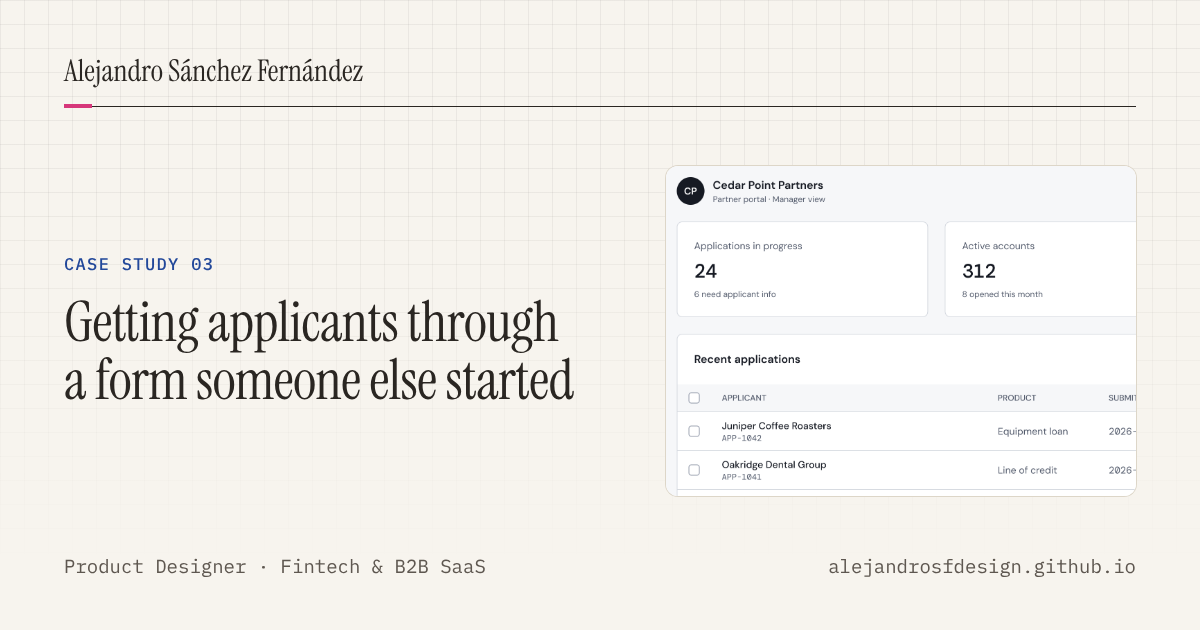
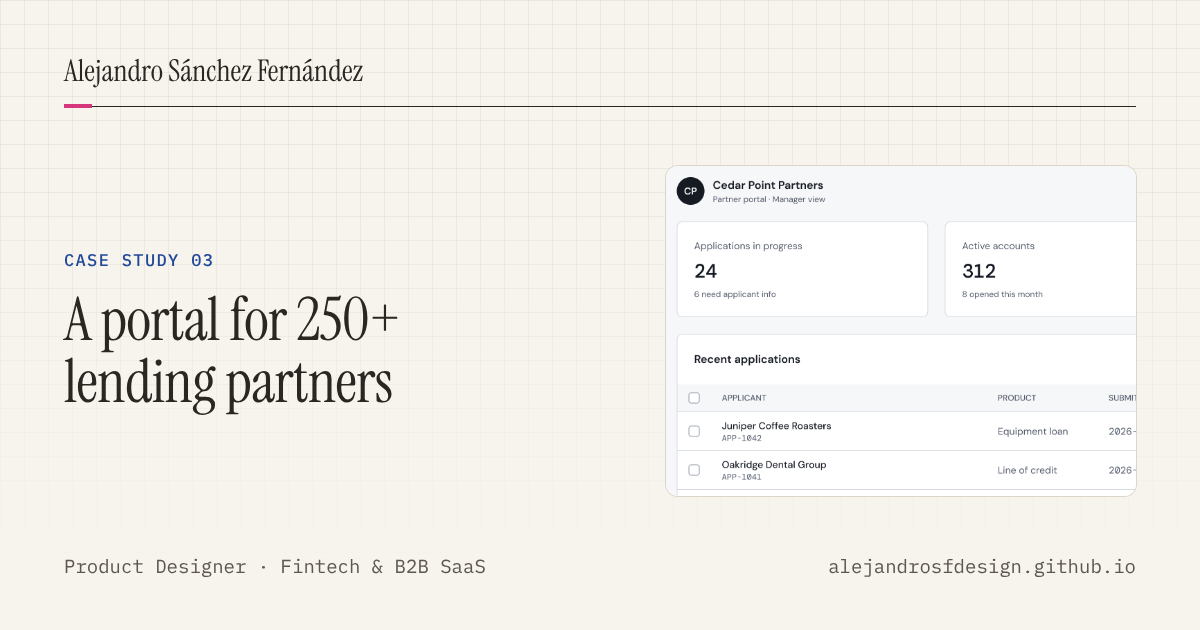
Case 03: align with the Corus deck — personas, prioritization, double-diamond challenges, before/after, one-pass flow, white-label, proposed validation
Claude-Session: https://claude.ai/code/session_01VMfZBDeXPhiXvsVLvhwzTe

Changed region(s): [[0.0308, 0.4524, 0.4933, 0.6635], [0.0617, 0.3921, 0.185, 0.4524]]

diff --git a/case-03.html b/case-03.html
@@ -3,24 +3,24 @@
 <head>
 <meta charset="utf-8">
 <meta name="viewport" content="width=device-width, initial-scale=1">
-<title>Getting applicants through a form someone else started — Alejandro Sánchez Fernández</title>
-<meta name="description" content="Case study: the portal 250+ lending partners use to submit applications, follow accounts and manage commissions, and the changes that helped more applicants finish.">
+<title>A portal for 250+ lending partners — Alejandro Sánchez Fernández</title>
+<meta name="description" content="Case study: a role-based portal, an internal admin and a redesigned application flow that took partner onboarding from 1–2 days to about 4 hours and cut form abandonment from ~30% to ~17% (approx.).">
 <link rel="canonical" href="https://alejandrosfdesign.github.io/case-03.html">
 <meta property="og:type" content="article">
 <meta property="og:site_name" content="Alejandro Sánchez Fernández">
-<meta property="og:title" content="Getting applicants through a form someone else started">
-<meta property="og:description" content="Case study: the portal 250+ lending partners use to submit applications, follow accounts and manage commissions, and the changes that helped more applicants finish.">
+<meta property="og:title" content="A portal for 250+ lending partners">
+<meta property="og:description" content="Case study: a role-based portal, an internal admin and a redesigned application flow that took partner onboarding from 1–2 days to about 4 hours and cut form abandonment from ~30% to ~17% (approx.).">
 <meta property="og:url" content="https://alejandrosfdesign.github.io/case-03.html">
 <meta property="og:image" content="https://alejandrosfdesign.github.io/assets/og/og-case-03.png">
 <meta property="og:image:width" content="1200">
 <meta property="og:image:height" content="630">
-<meta property="og:image:alt" content="Getting applicants through a form someone else started">
+<meta property="og:image:alt" content="A portal for 250+ lending partners">
 <meta name="twitter:card" content="summary_large_image">
 <link rel="preconnect" href="https://fonts.googleapis.com">
 <link rel="preconnect" href="https://fonts.gstatic.com" crossorigin>
 <link rel="stylesheet" href="https://fonts.googleapis.com/css2?family=Instrument+Serif&family=IBM+Plex+Mono:wght@400;500;600&family=IBM+Plex+Sans:wght@400;500;600&display=swap">
 <script>document.documentElement.classList.add("js")</script>
-<link rel="stylesheet" href="assets/style.css?v=8">
+<link rel="stylesheet" href="assets/style.css?v=9">
 <link rel="icon" href="assets/icons/favicon.svg" type="image/svg+xml">
 <link rel="icon" href="assets/icons/favicon-32.png" sizes="32x32" type="image/png">
 <link rel="apple-touch-icon" href="assets/icons/apple-touch-icon.png">
@@ -45,8 +45,8 @@
   <section class="case-hero">
     <div class="wrap intro">
       <a class="back" href="index.html#work">All work</a>
-      <h1>Getting applicants through a form someone else started</h1>
-      <p class="lede">Banks and fintechs offered small-business loans through Quantum’s platform. Together with my design teammate, I designed the portal their teams worked in, the internal admin that managed them, and the application flow their customers completed.</p>
+      <h1>A portal for 250+ lending partners</h1>
+      <p class="lede">A role-based portal, an internal admin and a redesigned application flow took partner onboarding from 1–2 days to about 4 hours, and cut form abandonment from ~30% to ~17%.</p>
       <dl class="facts">
         <div><dt>Role</dt><dd>Product design, co-led with my teammate</dd></div>
         <div><dt>Team</dt><dd>2 designers, engineering, Director of Product</dd></div>
@@ -63,77 +63,156 @@
       <figcaption>The partner portal in manager view. Agents see the same portal, with commissions read-only.</figcaption>
     </figure>
 
-    <div class="prose measure">
-      <h2>Context</h2>
-      <p>Quantum is lending infrastructure: partners bring the borrowers, Quantum runs the lending. Partners needed one place to submit applications, follow their accounts, see their commissions and handle documents, and Quantum needed a way to onboard and manage those partners.</p>
+    <section class="block">
+      <div class="prose measure">
+        <h2>The problem</h2>
+        <p>Quantum ran small-business lending for 250+ partners such as US Bank and SoFi. Growth ran into three problems:</p>
+      </div>
+      <div class="cards">
+        <div class="card"><span class="t">Slow onboarding</span><p>Setting up a partner took days and depended on engineering.</p><span class="src">Found in: definition sessions with operations</span></div>
+        <div class="card"><span class="t">Status by email</span><p>Partners chased application status by email, with no view of their commissions.</p><span class="src">Found in: sessions with partners and operations</span></div>
+        <div class="card"><span class="t">~30% abandonment</span><p>About 3 in 10 applicants abandoned the pre-filled form.</p><span class="src">Found in: session recordings and analytics (Hotjar and Datadog)</span></div>
+      </div>
+    </section>
 
+    <section class="block">
+      <div class="prose measure">
+        <h2>Who we designed for</h2>
+        <p>Personas built from research with all three groups, documented in the company’s Confluence.</p>
+      </div>
+      <div class="cards">
+        <div class="card"><span class="t">Operations</span><p>Quantum operations or partnerships agent. Works in the internal admin.</p><p><b>Goal:</b> onboard a partner quickly and without errors.</p><p><b>Frustration:</b> scattered setup, permission errors found late, depending on engineering.</p></div>
+        <div class="card"><span class="t">Partner manager</span><p>A bank or fintech lead who oversees a team of agents.</p><p><b>Goal:</b> see their pipeline and control what each agent sees.</p><p><b>Frustration:</b> chasing status by email, with no view of commissions.</p></div>
+        <div class="card"><span class="t">Applicant</span><p>A US small-business owner, often on a phone and short on time.</p><p><b>Goal:</b> finish fast and understand what’s missing.</p><p><b>Frustration:</b> a half-filled form and technical language.</p></div>
+      </div>
+    </section>
+
+    <section class="block">
+      <div class="prose measure"><h2>Outcome</h2></div>
+      <div class="cards four stats">
+        <div class="card stat"><span class="t">1–2 days → 4 h</span><p>to onboard a partner (approx.)</p></div>
+        <div class="card stat"><span class="t">~30% → ~17%</span><p>form abandonment (approx.)</p></div>
+        <div class="card stat"><span class="t">250+</span><p>partners on the portal</p></div>
+        <div class="card stat"><span class="t">2025</span><p>standout design win, per the Director of Product</p></div>
+      </div>
+      <p class="fine">Approximate figures observed in production with Hotjar and Datadog, not from a formal study.</p>
+      <div class="prose measure" style="margin-top: 24px;">
+        <ul>
+          <li>Application tracking moved from email into the portal, and fewer applications came back for missing data.</li>
+          <li>Consistent positive feedback from US Bank, and recognition for the design team in bi-weekly demos.</li>
+        </ul>
+      </div>
+    </section>
+
+    <div class="prose measure">
       <h2>My role</h2>
-      <p>I co-designed the experience with my design teammate, from definition sessions and initial flows to information architecture and bi-weekly demos with stakeholders. We split the work evenly and refined it together.</p>
-
-      <h2>Three kinds of users, one system</h2>
-      <p>Roles let the same portal serve an agent and a manager without separate products, and an internal admin kept partners, users and permissions under control.</p>
+      <p>I co-designed the experience with my design teammate; we split the work evenly and refined it together. My part covered research and definition sessions with all three groups, the flows and information architecture of the admin, the portal and the application flow, and the role and permission model. I presented in bi-weekly demos, worked with compliance on wording, used Hotjar and Datadog to find where applicants dropped off, and reviewed each release as visual approver in Chromatic.</p>
     </div>
 
-    <div class="diagram" role="figure" aria-label="What each role can do">
-      <p class="title">Who does what</p>
-      <div class="matrix-wrap">
-        <table class="matrix">
-          <thead>
-            <tr><th scope="col">Role</th><th scope="col">Applications</th><th scope="col">Accounts</th><th scope="col">Commissions</th><th scope="col">Documents</th></tr>
-          </thead>
-          <tbody>
-            <tr><th scope="row">Partner agent<small>Partner portal</small></th><td class="yes">Submit and track</td><td class="yes">Follow</td><td class="no">View only</td><td class="yes">Manage</td></tr>
-            <tr><th scope="row">Partner manager<small>Partner portal</small></th><td class="yes">Submit and track</td><td class="yes">Follow</td><td class="yes">View and manage</td><td class="yes">Manage</td></tr>
-            <tr><th scope="row">Quantum team<small>Internal admin</small></th><td colspan="4" class="yes">Onboard partners, set up their users and roles, and configure each partner</td></tr>
-          </tbody>
-        </table>
+    <section class="block">
+      <div class="prose measure">
+        <h2>Why these challenges first</h2>
+        <p>An Eisenhower matrix adapted to urgency and importance for the business.</p>
       </div>
-    </div>
-
-    <div class="prose measure">
-      <h2>The problem we found after launch</h2>
-      <p>Applications reached Quantum in two ways: partners filled them in on the applicant’s behalf, or sent the applicant a link to a pre-filled form. Session recordings showed where the second path broke down. Applicants opened a form that was mostly complete but still missing fields only they could answer, and they struggled to find them. Many left before finishing.</p>
-    </div>
-
-    <figure class="fig">
-      <a class="fig-link" href="assets/img/c3-v3-before-after.png"><img src="assets/img/c3-v3-before-after.png" srcset="assets/img/c3-v3-before-after-800.webp 800w, assets/img/c3-v3-before-after-1600.webp 1600w, assets/img/c3-v3-before-after.webp 3360w" sizes="(max-width: 1200px) calc(100vw - 48px), 1152px" alt="The same pre-filled application before and after: before, a plain form with empty fields mixed among filled ones; after, a progress bar, a count of fields that need input, a Next missing field button and per-section completion." width="3360" height="2418" loading="lazy"></a>
-      <figcaption>Before and after. The fields are the same; what changed is how quickly the applicant can find what’s missing.</figcaption>
-    </figure>
-
-    <div class="prose measure">
-      <h2>Decisions</h2>
-      <div class="decisions">
-        <div class="decision">
-          <h3>Take people to what’s missing</h3>
-          <p>Over a couple of iterations we added a toolbar that moves the applicant to the next missing field, so they don’t have to scan a long form for gaps.</p>
+      <div class="diagram" role="figure" aria-label="Prioritization matrix: urgency by business importance">
+        <div class="prio">
+          <div class="ax-y">Importance for the business →</div>
+          <div class="card q now"><span class="lab">Do now</span><p><b>Partner onboarding</b> depended on engineering</p><p><b>Form abandonment</b> (~30%)</p></div>
+          <div class="card q plan"><span class="lab">Plan</span><p><b>Roles and permissions</b> per partner</p><p><b>Clarity vs. compliance</b></p></div>
+          <div class="card q"><span class="lab">Quick fix</span><p>One-off partner requests, handled as tickets inside the portal</p></div>
+          <div class="card q"><span class="lab">Later</span><p>Developer tools and advanced white-label customization (in QA when I left)</p></div>
+          <div></div><div class="ax-x">← More urgent · Less urgent →</div>
         </div>
-        <div class="decision">
-          <h3>Show progress, not just fields</h3>
-          <p>A progress bar makes clear how much is left, which matters most when a form arrives already half done.</p>
-        </div>
-        <div class="decision">
-          <h3>Plain language where compliance allows</h3>
-          <p>We removed jargon and reordered fields so the questions made sense in sequence, while keeping the wording compliance required.</p>
-        </div>
+        <div class="criteria"><span><b>Urgency:</b> how much it slowed operations or lost applications today.</span><span><b>Importance:</b> impact on partner growth and completed applications.</span><span><b>Frequency:</b> how many times a day it happened.</span></div>
       </div>
-    </div>
+    </section>
 
-    <figure class="fig fig-narrow">
-      <a class="fig-link" href="assets/img/c3-v2-prefilled-application.png"><img src="assets/img/c3-v2-prefilled-application.png" srcset="assets/img/c3-v2-prefilled-application-800.webp 800w, assets/img/c3-v2-prefilled-application-1600.webp 1600w, assets/img/c3-v2-prefilled-application.webp 2528w" sizes="(max-width: 808px) calc(100vw - 48px), 760px" alt="Applicant view of a pre-filled application: 8 of 11 fields complete, 3 fields need input, a Next missing field button, sections pre-filled by the partner, missing fields marked Required to submit, and a disabled Submit button explaining why." width="2528" height="2756" loading="lazy"></a>
-      <figcaption>The applicant’s view: what the partner filled in, what’s left, and why Submit is still unavailable.</figcaption>
-    </figure>
+    <section class="block">
+      <div class="prose measure"><h2>Key challenges</h2></div>
+      <div style="margin-top: 24px;">
+        <div class="dd-strip"><div><p class="n">The pre-filled form was abandoned</p><span class="res">~30% → ~17% abandonment</span></div><ol class="phases"><li><span class="l">Discover</span>Hotjar and Datadog: applicants couldn’t find the few fields only they could fill in.</li><li><span class="l">Define</span>“Do now”: every abandoned form was an application lost for the partner.</li><li class="m"><span class="l">Develop</span>A jump to the next missing field, visible progress, and a one-pass flow with Plaid.</li><li class="m"><span class="l">Deliver</span>Abandonment from ~30% to ~17% (approx.), measured again in Hotjar and Datadog.</li></ol></div>
+        <div class="dd-strip"><div><p class="n">Partner onboarding depended on engineering</p><span class="res">1–2 days → 4 hours</span></div><ol class="phases"><li><span class="l">Discover</span>Sessions with operations: scattered setup and permission errors that surfaced late.</li><li><span class="l">Define</span>Let operations onboard a partner on their own, in a guided flow with no technical changes.</li><li class="m"><span class="l">Develop</span>An internal admin to set up the partner, users, roles and white-label branding.</li><li class="m"><span class="l">Deliver</span>Onboarding went from 1–2 days to about 4 hours (approx.).</li></ol></div>
+        <div class="dd-strip"><div><p class="n">One portal, users with different permissions</p><span class="res">One base for 250+ partners</span></div><ol class="phases"><li><span class="l">Discover</span>Sessions with partners: agents and managers needed to see different things, especially commissions.</li><li><span class="l">Define</span>One system with roles, not separate products per type of user.</li><li class="m"><span class="l">Develop</span>Managers manage commissions; agents see them read-only. Permissions per partner.</li><li class="m"><span class="l">Deliver</span>250+ partners running on the same base.</li></ol></div>
+        <div class="dd-strip"><div><p class="n">Clarity versus compliance</p><span class="res">Clearer, same compliance</span></div><ol class="phases"><li><span class="l">Discover</span>Session recordings: technical language, but much of the wording was required by compliance.</li><li><span class="l">Define</span>Change only what wasn’t mandatory wording.</li><li class="m"><span class="l">Develop</span>We worked with compliance: removed jargon and reordered fields into a logical sequence.</li><li class="m"><span class="l">Deliver</span>Clearer questions without losing compliance.</li></ol></div>
+      </div>
+      <p class="dd-legend">Each challenge runs through the double diamond: Discover and Define in cobalt, Develop and Deliver in magenta.</p>
+    </section>
+
+    <section class="annotated">
+      <figure><a class="fig-link" href="assets/img/c3-v4-before.png"><img src="assets/img/c3-v4-before.png" srcset="assets/img/c3-v4-before-800.webp 800w, assets/img/c3-v4-before.webp 1200w" sizes="(max-width: 800px) calc(100vw - 48px), 520px" alt="The pre-filled application before the redesign, with four numbered markers: a warning banner whose Click to view link looks like plain text, an industry field asking for a NAICS code, a full date picker for the business start date, and a Complete application button with no count of pending fields." width="1200" height="1236" loading="lazy"></a><figcaption>Before. Reconstruction with Kestrel UI and fictional data.</figcaption></figure>
+      <div>
+        <h2>Before: what applicants saw</h2>
+        <p class="intro-p">Session recordings and analytics showed the same pattern on desktop and mobile:</p>
+        <ol class="issues">
+          <li><b>The notice didn’t read as an action.</b> “Click to view” had the same weight and color as the text, so people didn’t see it as a link.</li>
+          <li><b>Industry by NAICS code.</b> Applicants don’t know their business’s code; it was one of the fields where they got stuck most.</li>
+          <li><b>A calendar for a date that only needs month and year.</b> The other field with the most friction.</li>
+          <li><b>A button with no context.</b> No count of pending fields and no progress; on desktop the notice went unnoticed.</li>
+        </ol>
+        <p class="fine">Pre-filled and missing fields also looked the same.</p>
+      </div>
+    </section>
+
+    <section class="annotated">
+      <figure><a class="fig-link" href="assets/img/c3-v5-after.png"><img src="assets/img/c3-v5-after.png" srcset="assets/img/c3-v5-after-800.webp 800w, assets/img/c3-v5-after.webp 1200w" sizes="(max-width: 800px) calc(100vw - 48px), 520px" alt="The same pre-filled application after the redesign: 9 of 11 fields complete with a progress bar and a Jump to next missing button, pre-filled fields marked On file with a check, two highlighted missing fields with plain-language labels, and a disabled button explaining Complete 2 fields to continue." width="1200" height="1290" loading="lazy"></a><figcaption>After. Reconstruction with Kestrel UI and fictional data.</figcaption></figure>
+      <div>
+        <h2>After: same data, a different experience</h2>
+        <ul class="crit">
+          <li><b>Explicit progress.</b> “9 of 11” and a bar remove the uncertainty; “Jump to next missing” goes straight to the pending field.</li>
+          <li><b>Pre-filled data stands apart.</b> A check and an “On file” tag: applicants confirm instead of reviewing everything again.</li>
+          <li><b>What’s missing stands out.</b> Indigo border and focus, with a count per section (“2 fields need you”).</li>
+          <li><b>Industry in the applicant’s words.</b> Search by name; the NAICS code is secondary.</li>
+          <li><b>Month and year, no calendar.</b> Ask only for the detail that’s needed.</li>
+          <li><b>A disabled button that says why.</b> “Complete 2 fields to continue” explains what’s left.</li>
+        </ul>
+      </div>
+    </section>
+
+    <section class="block">
+      <div class="prose measure"><h2>From form to offer in one session</h2></div>
+      <figure class="fig" style="margin-top: 24px;"><a class="fig-link" href="assets/img/c3-v6-one-pass.png"><img src="assets/img/c3-v6-one-pass.png" srcset="assets/img/c3-v6-one-pass-800.webp 800w, assets/img/c3-v6-one-pass-1600.webp 1600w, assets/img/c3-v6-one-pass.webp 2400w" sizes="(max-width: 1200px) calc(100vw - 48px), 1152px" alt="Three mobile screens with the partner’s brand: complete the two missing fields, connect a business bank account, and choose between three loan offers." width="2400" height="1360" loading="lazy"></a><figcaption>Mobile, with the partner’s brand on every step. Reconstruction with Kestrel UI and fictional data.</figcaption></figure>
+      <div class="steps3">
+        <p><b>1 · Complete:</b> only the missing fields are asked; the rest comes from the partner.</p>
+        <p><b>2 · Connect the bank:</b> Plaid inside the same flow, with no detour to another screen.</p>
+        <p><b>3 · Choose an offer:</b> the applicant finishes in the same session, without waiting for another email.</p>
+      </div>
+    </section>
+
+    <section class="block">
+      <div class="prose measure"><h2>One system, each partner’s brand</h2></div>
+      <figure class="fig" style="margin-top: 24px;"><a class="fig-link" href="assets/img/c3-v7-admin.png"><img src="assets/img/c3-v7-admin.png" srcset="assets/img/c3-v7-admin-800.webp 800w, assets/img/c3-v7-admin-1600.webp 1600w, assets/img/c3-v7-admin.webp 2400w" sizes="(max-width: 1200px) calc(100vw - 48px), 1152px" alt="Internal admin setting up a new partner: a four-step setup, a permissions table for agent and manager roles, invited users, and a white-label preview with the partner’s primary color and logo." width="2400" height="1580" loading="lazy"></a><figcaption>Internal admin: roles, permissions, invitations and white-label preview. Reconstruction with Kestrel UI and fictional data.</figcaption></figure>
+      <div class="prose measure">
+        <ul>
+          <li>Each partner sets its brand (primary color and logo), and applicants see it throughout the flow.</li>
+          <li>I coordinated the design system’s color and brand tokens with engineering, so white-label changed the brand without breaking components or contrast.</li>
+          <li>Agents and managers share one interface; permissions decide what each one sees.</li>
+          <li>Developer tools for deeper brand and experience customization were in QA when I left.</li>
+        </ul>
+        <p>The portal ran on the design system I built from scratch. How it was built, shipped and kept up to date is in <a href="case-01.html">the first case study</a>.</p>
+      </div>
+    </section>
+
+    <section class="block">
+      <div class="prose measure">
+        <h2>How I’d validate it</h2>
+        <p><span class="proposal">Proposal, not run in the project</span></p>
+        <p>We validated with research, bi-weekly demos and analytics, but not with formal usability tests. This is how I’d run them:</p>
+      </div>
+      <div class="cards four">
+        <div class="card"><span class="t">Who</span><p>5 participants per profile, following Nielsen: with 5 users most usability problems show up.</p></div>
+        <div class="card"><span class="t">How</span><p>Unmoderated tests with the Figma prototype: mobile for applicants, desktop for partners.</p></div>
+        <div class="card"><span class="t">Tasks</span><p>Complete a pre-filled application, find an application’s status, onboard a partner.</p></div>
+        <div class="card"><span class="t">Metrics</span><p>Success rate, time per task, drop-off by field, and SEQ (ease from 1 to 7 after each task).</p></div>
+      </div>
+      <p class="fine">Then I’d compare against Hotjar and Datadog in production, to confirm what tests show also happens with real users.</p>
+    </section>
 
     <div class="prose measure">
-      <h2>Outcome</h2>
-      <ul>
-        <li>More applicants completed their applications and fewer abandoned the form, observed after the changes but not formally measured.</li>
-        <li>The Director of Product named the partner portal one of the standout design wins of 2025.</li>
-      </ul>
-
+      <h2>What I learned</h2>
+      <p>Session recordings revealed a problem nobody had reported. Watching real use after launch mattered as much as the initial research.</p>
       <h2>What I’d do differently</h2>
-      <p>Instrument the pre-filled form from day one: completion rate and drop-off by field. We saw the improvement in recordings and in completed applications, but a funnel would have shown exactly which change mattered most.</p>
+      <p>Measure drop-off by field from day one, and add unmoderated usability tests before every major release.</p>
     </div>
-
 
     <section class="next">
       <p class="soon-note">Start again</p>
@@ -156,7 +235,7 @@
 <script>
 (() => {
   if (!('IntersectionObserver' in window) || matchMedia('(prefers-reduced-motion: reduce)').matches) return;
-  const sel = '.work-item, .about > *, .fig, .fig-pair, .diagram, .prose, .note, .next';
+  const sel = '.work-item, .about > *, .fig, .fig-pair, .diagram, .prose, .note, .next, .cards, .dd-strip, .annotated';
   const els = [...document.querySelectorAll(sel)].filter(el => !el.parentElement.closest('.fig-pair'));
   els.forEach(el => el.classList.add('reveal'));
   const io = new IntersectionObserver(entries => {

diff --git a/assets/style.css b/assets/style.css
@@ -275,3 +275,70 @@ picture { display: block; }
   font-family: var(--sans); font-size: 16px; line-height: 1.6;
 }
 .case-hero .lede { font-size: 18px; }
+
+/* ---------- Case study patterns (shared by all three cases) ---------- */
+.block { margin: 48px 0; }
+.block > .prose + * { margin-top: 24px; }
+.cards { display: grid; grid-template-columns: repeat(3, minmax(0, 1fr)); gap: 20px; }
+.cards.four { grid-template-columns: repeat(4, minmax(0, 1fr)); }
+.card { padding: 20px 22px; border: 1px solid #cfc7b5; border-radius: 6px; background: #fbf9f4; font-family: var(--sans); font-size: 15px; line-height: 1.55; display: grid; gap: 8px; align-content: start; }
+.card .t { font-family: var(--serif); font-size: 26px; line-height: 1.1; color: var(--cobalt); white-space: nowrap; }
+.card .src, .card .k { font-family: var(--mono); font-size: 12px; color: var(--muted); }
+.card b { font-weight: 600; }
+.stat .t { font-size: 30px; }
+.fine { margin-top: 14px; font-size: 12px; color: var(--muted); }
+
+/* Prioritization matrix (urgency x importance) */
+.prio { display: grid; grid-template-columns: 24px repeat(2, minmax(0, 1fr)); grid-template-rows: auto auto 22px; gap: 10px; }
+.prio .ax-y { grid-row: 1 / 3; writing-mode: vertical-rl; transform: rotate(180deg); text-align: center; font-size: 11px; letter-spacing: .1em; text-transform: uppercase; color: var(--muted); }
+.prio .ax-x { grid-column: 2 / 4; text-align: center; font-size: 11px; letter-spacing: .1em; text-transform: uppercase; color: var(--muted); }
+.prio .q { min-height: 120px; }
+.prio .q .lab { font-family: var(--mono); font-size: 11.5px; letter-spacing: .12em; text-transform: uppercase; font-weight: 600; color: var(--muted); }
+.prio .q.now { background: #fbe7ef; border-color: #e9b5c9; }
+.prio .q.now .lab { color: var(--magenta); }
+.prio .q.plan { background: #e8eef9; border-color: #b8c7e6; }
+.prio .q.plan .lab { color: var(--cobalt); }
+.criteria { margin-top: 20px; font-size: 13px; color: var(--muted); display: grid; gap: 4px; }
+
+/* Double-diamond strip: one challenge through the four phases */
+.dd-strip { display: grid; grid-template-columns: minmax(0, 15rem) minmax(0, 1fr); gap: 28px; padding: 24px 0; border-top: 1px solid var(--ink); }
+.dd-strip:last-of-type { border-bottom: 1px solid var(--line); }
+.dd-strip .n { font-family: var(--serif); font-size: 24px; line-height: 1.15; color: var(--cobalt); }
+.dd-strip .res { display: block; margin-top: 8px; font-size: 12.5px; font-weight: 600; color: var(--magenta); }
+.phases { display: grid; grid-template-columns: repeat(4, minmax(0, 1fr)); gap: 16px; list-style: none; margin: 0; padding: 0; }
+.phases li { border-top: 4px solid var(--cobalt); padding-top: 10px; font-family: var(--sans); font-size: 14px; line-height: 1.5; }
+.phases li.m { border-top-color: var(--magenta); }
+.phases .l { display: block; font-family: var(--mono); font-size: 11px; letter-spacing: .1em; text-transform: uppercase; font-weight: 600; color: var(--cobalt); margin-bottom: 4px; }
+.phases li.m .l { color: var(--magenta); }
+.dd-legend { margin-top: 14px; font-size: 12px; color: var(--muted); }
+
+/* Screen + annotations side by side (before / after) */
+.annotated { display: grid; grid-template-columns: minmax(0, 5fr) minmax(0, 6fr); gap: 48px; align-items: start; margin: 48px 0; }
+.annotated figure { margin: 0; }
+.annotated figure img { border-radius: 8px; }
+.annotated figcaption { margin-top: 10px; font-size: 12px; color: var(--muted); }
+.annotated h2 { margin-bottom: 16px; }
+.annotated .intro-p { font-family: var(--sans); font-size: 16px; line-height: 1.6; margin-bottom: 18px; }
+.issues, .crit { margin: 0; padding: 0; list-style: none; display: grid; gap: 14px; font-family: var(--sans); font-size: 15px; line-height: 1.55; }
+.issues { counter-reset: i; }
+.issues li { counter-increment: i; position: relative; padding-left: 38px; }
+.issues li::before { content: counter(i); position: absolute; left: 0; top: 0; width: 24px; height: 24px; border-radius: 50%; background: var(--magenta); color: #fff; font-family: var(--mono); font-size: 12px; font-weight: 600; display: flex; align-items: center; justify-content: center; }
+.crit li { padding-left: 18px; border-left: 3px solid var(--cobalt); }
+.issues b, .crit b { font-weight: 600; }
+.steps3 { display: grid; grid-template-columns: repeat(3, minmax(0, 1fr)); gap: 24px; margin-top: 20px; font-family: var(--sans); font-size: 15px; line-height: 1.55; }
+.steps3 b { font-weight: 600; }
+.proposal { display: inline-block; font-size: 11.5px; letter-spacing: .1em; text-transform: uppercase; font-weight: 600; color: var(--magenta); border: 1px solid var(--magenta); border-radius: 12px; padding: 2px 10px; }
+
+@media (max-width: 800px) {
+  .cards, .cards.four { grid-template-columns: 1fr; }
+  .cards.four.stats { grid-template-columns: repeat(2, minmax(0, 1fr)); }
+  .card .t { white-space: normal; }
+  .stat .t { font-size: 24px; }
+  .dd-strip { grid-template-columns: 1fr; gap: 16px; }
+  .phases { grid-template-columns: repeat(2, minmax(0, 1fr)); row-gap: 18px; }
+  .annotated { grid-template-columns: 1fr; gap: 24px; }
+  .annotated > div { order: -1; }
+  .steps3 { grid-template-columns: 1fr; gap: 12px; }
+  .prio { grid-template-columns: 20px repeat(2, minmax(0, 1fr)); gap: 8px; }
+  .prio .q { min-height: 0; padding: 14px; font-size: 14px; }
+}

diff --git a/index.html b/index.html
@@ -20,7 +20,7 @@
 <link rel="preconnect" href="https://fonts.gstatic.com" crossorigin>
 <link rel="stylesheet" href="https://fonts.googleapis.com/css2?family=Instrument+Serif&family=IBM+Plex+Mono:wght@400;500;600&family=IBM+Plex+Sans:wght@400;500;600&display=swap">
 <script>document.documentElement.classList.add("js")</script>
-<link rel="stylesheet" href="assets/style.css?v=8">
+<link rel="stylesheet" href="assets/style.css?v=9">
 <link rel="icon" href="assets/icons/favicon.svg" type="image/svg+xml">
 <link rel="icon" href="assets/icons/favicon-32.png" sizes="32x32" type="image/png">
 <link rel="apple-touch-icon" href="assets/icons/apple-touch-icon.png">
@@ -91,9 +91,9 @@
         </article>
         <article class="work-item">
           <div>
-            <h3><a href="case-03.html">Getting applicants through a form someone else started</a></h3>
+            <h3><a href="case-03.html">A portal for 250+ lending partners</a></h3>
             <p class="meta">B2B partner platform, 2023–2025</p>
-            <p class="summary">The portal banks and fintechs use to submit applications and manage commissions, and the changes that helped more applicants finish their forms.</p>
+            <p class="summary">The portal, admin and application flow behind 250+ lending partners: onboarding from 1–2 days to about 4 hours, and fewer applicants abandoning the form.</p>
             <a class="go" href="case-03.html">Read the case study</a>
           </div>
           <figure>

diff --git a/case-02.html b/case-02.html
@@ -20,7 +20,7 @@
 <link rel="preconnect" href="https://fonts.gstatic.com" crossorigin>
 <link rel="stylesheet" href="https://fonts.googleapis.com/css2?family=Instrument+Serif&family=IBM+Plex+Mono:wght@400;500;600&family=IBM+Plex+Sans:wght@400;500;600&display=swap">
 <script>document.documentElement.classList.add("js")</script>
-<link rel="stylesheet" href="assets/style.css?v=8">
+<link rel="stylesheet" href="assets/style.css?v=9">
 <link rel="icon" href="assets/icons/favicon.svg" type="image/svg+xml">
 <link rel="icon" href="assets/icons/favicon-32.png" sizes="32x32" type="image/png">
 <link rel="apple-touch-icon" href="assets/icons/apple-touch-icon.png">
@@ -163,7 +163,7 @@
 
     <section class="next">
       <p class="soon-note">Next case study</p>
-      <h3 style="margin-top: 8px;"><a href="case-03.html" style="color: var(--ink); text-decoration: none;">Getting applicants through a form someone else started</a></h3>
+      <h3 style="margin-top: 8px;"><a href="case-03.html" style="color: var(--ink); text-decoration: none;">A portal for 250+ lending partners</a></h3>
       <p style="margin-top: 16px;"><a href="index.html#work">Back to all work</a></p>
     </section>
   </div>

diff --git a/case-01.html b/case-01.html
@@ -20,7 +20,7 @@
 <link rel="preconnect" href="https://fonts.gstatic.com" crossorigin>
 <link rel="stylesheet" href="https://fonts.googleapis.com/css2?family=Instrument+Serif&family=IBM+Plex+Mono:wght@400;500;600&family=IBM+Plex+Sans:wght@400;500;600&display=swap">
 <script>document.documentElement.classList.add("js")</script>
-<link rel="stylesheet" href="assets/style.css?v=8">
+<link rel="stylesheet" href="assets/style.css?v=9">
 <link rel="icon" href="assets/icons/favicon.svg" type="image/svg+xml">
 <link rel="icon" href="assets/icons/favicon-32.png" sizes="32x32" type="image/png">
 <link rel="apple-touch-icon" href="assets/icons/apple-touch-icon.png">
